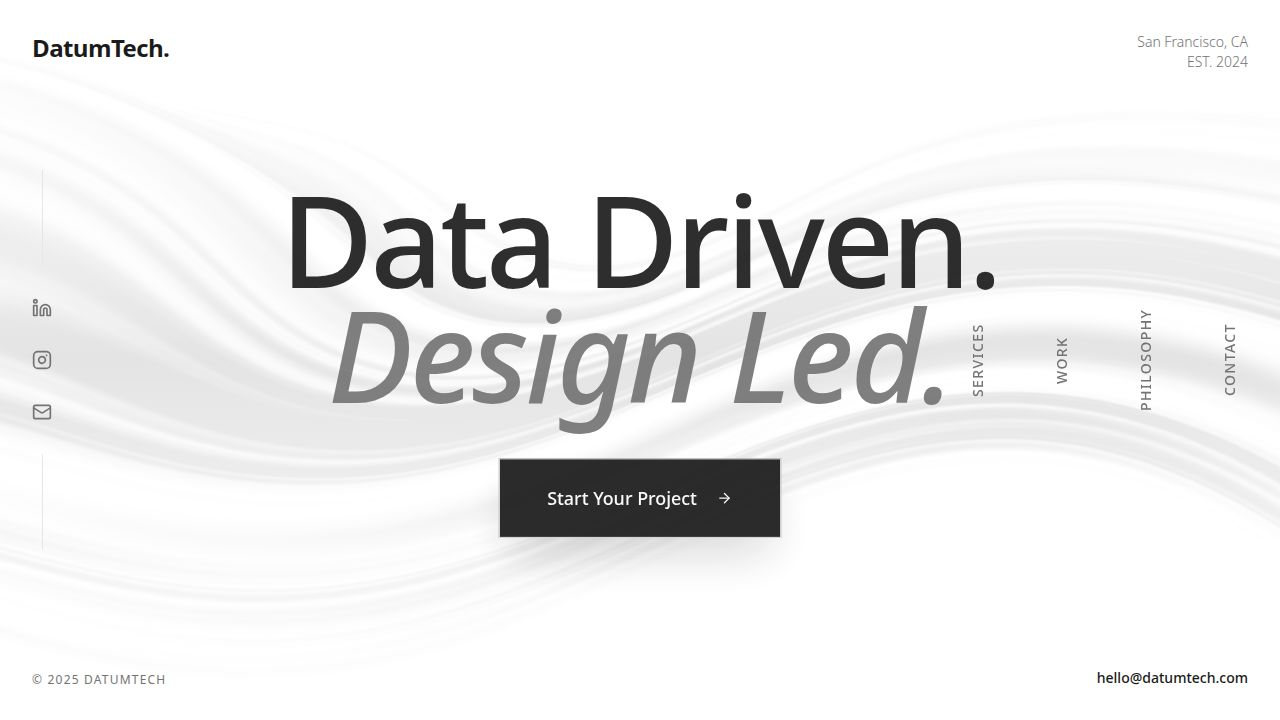
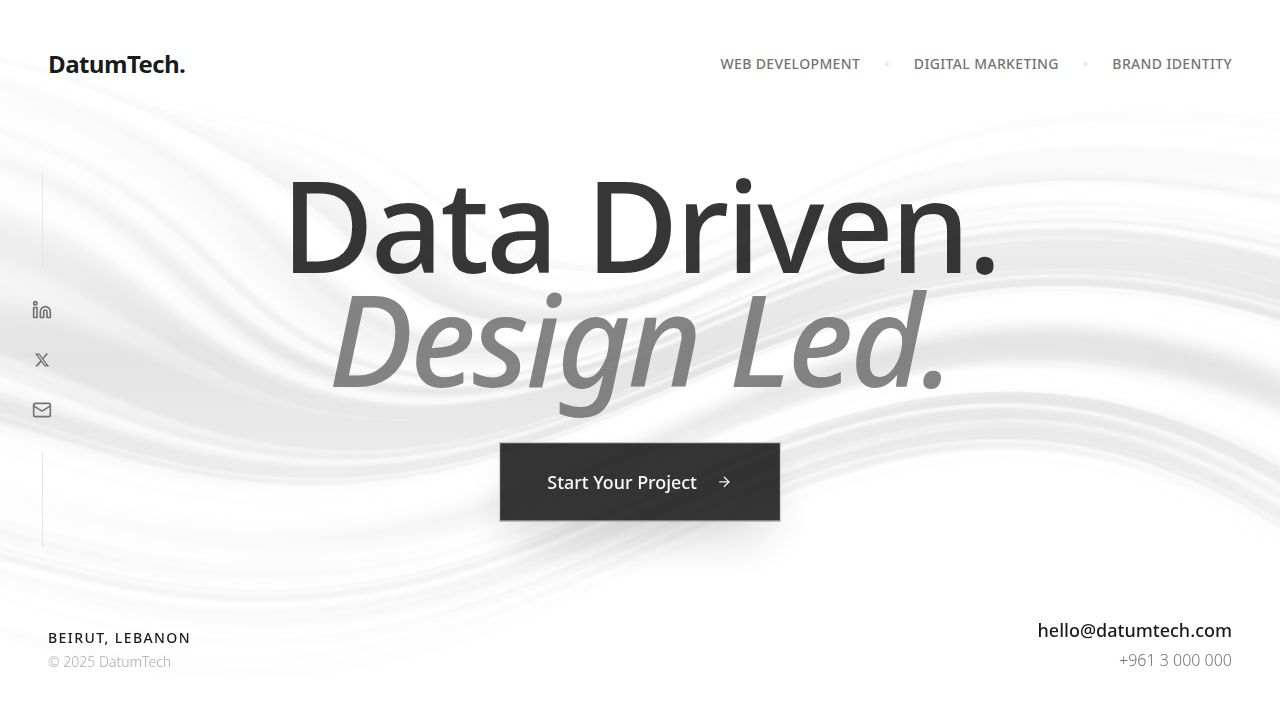
Update website branding and layout to reflect new business information
Replace Instagram logo with X logo, update location to Beirut, remove right-side navigation, and add service list to the top right header.

Replit-Commit-Author: Agent
Replit-Commit-Session-Id: 47a8e106-f118-4bb9-bd44-e1fb03fa4657
Replit-Commit-Checkpoint-Type: full_checkpoint
Replit-Commit-Event-Id: a6e69393-aa78-4894-9bbd-1a72d539158c
Replit-Commit-Screenshot-Url: https://storage.googleapis.com/screenshot-production-us-central1/a9d355a1-3046-4cba-b1a1-2083b4b99bc4/47a8e106-f118-4bb9-bd44-e1fb03fa4657/ioDjMUp
Replit-Helium-Checkpoint-Created: true

diff --git a/client/src/pages/home.tsx b/client/src/pages/home.tsx
@@ -1,10 +1,16 @@
 import React from "react";
-import { ArrowRight, Mail, Instagram, Linkedin, Twitter } from "lucide-react";
+import { ArrowRight, Mail, Linkedin } from "lucide-react";
 import { motion } from "framer-motion";
 import { Button } from "@/components/ui/button";
 
 // Generated assets
 import heroBg from "@assets/generated_images/abstract_elegant_black_and_white_fluid_waves.png"; 
+
+const XLogo = ({ className }: { className?: string }) => (
+  <svg viewBox="0 0 24 24" fill="currentColor" className={className}>
+    <path d="M18.244 2.25h3.308l-7.227 8.26 8.502 11.24H16.17l-5.214-6.817L4.99 21.75H1.68l7.73-8.835L1.254 2.25H8.08l4.713 6.231zm-1.161 17.52h1.833L7.084 4.126H5.117z" />
+  </svg>
+);
 
 export default function Home() {
   return (
@@ -20,44 +26,53 @@ export default function Home() {
         <div className="absolute inset-0 bg-gradient-to-b from-background via-transparent to-background" />
       </div>
 
-      {/* TOP: Brand */}
-      <header className="absolute top-0 left-0 w-full p-8 z-50 flex justify-between items-start">
+      {/* TOP BAR */}
+      <header className="absolute top-0 left-0 w-full p-8 md:p-12 z-50 flex flex-col md:flex-row justify-between items-start md:items-center gap-6">
         <div className="text-2xl font-serif font-bold tracking-tight">DatumTech.</div>
-        <div className="hidden md:flex flex-col items-end text-sm text-muted-foreground font-light">
-          <span>San Francisco, CA</span>
-          <span>EST. 2024</span>
+        
+        {/* Services List - Top Right */}
+        <div className="flex flex-wrap gap-x-6 gap-y-2 text-sm font-medium tracking-wide text-muted-foreground uppercase">
+          <span>Web Development</span>
+          <span className="hidden md:inline text-border">•</span>
+          <span>Digital Marketing</span>
+          <span className="hidden md:inline text-border">•</span>
+          <span>Brand Identity</span>
         </div>
       </header>
 
       {/* LEFT: Socials (Vertical) */}
       <div className="absolute left-0 top-1/2 -translate-y-1/2 p-8 z-50 hidden md:flex flex-col gap-8 items-center">
         <div className="h-24 w-px bg-border"></div>
-        <a href="#" className="hover:text-primary transition-colors text-muted-foreground"><Linkedin className="w-5 h-5" /></a>
-        <a href="#" className="hover:text-primary transition-colors text-muted-foreground"><Instagram className="w-5 h-5" /></a>
-        <a href="#" className="hover:text-primary transition-colors text-muted-foreground"><Mail className="w-5 h-5" /></a>
+        <a href="#" className="hover:text-primary transition-colors text-muted-foreground hover:scale-110 duration-200"><Linkedin className="w-5 h-5" /></a>
+        <a href="#" className="hover:text-primary transition-colors text-muted-foreground hover:scale-110 duration-200"><XLogo className="w-4 h-4" /></a>
+        <a href="mailto:hello@datumtech.com" className="hover:text-primary transition-colors text-muted-foreground hover:scale-110 duration-200"><Mail className="w-5 h-5" /></a>
         <div className="h-24 w-px bg-border"></div>
       </div>
 
-      {/* RIGHT: Navigation (Vertical) */}
-      <nav className="absolute right-0 top-1/2 -translate-y-1/2 p-8 z-50 hidden md:flex flex-col gap-12 text-sm font-medium tracking-widest uppercase [writing-mode:vertical-rl] rotate-180 items-center">
-        <a href="#services" className="hover:text-primary text-muted-foreground transition-colors py-2">Services</a>
-        <a href="#work" className="hover:text-primary text-muted-foreground transition-colors py-2">Work</a>
-        <a href="#philosophy" className="hover:text-primary text-muted-foreground transition-colors py-2">Philosophy</a>
-        <a href="#contact" className="hover:text-primary text-muted-foreground transition-colors py-2">Contact</a>
-      </nav>
-
-      {/* BOTTOM: Contact/Status */}
-      <footer className="absolute bottom-0 left-0 w-full p-8 z-50 flex justify-between items-end">
-        <div className="text-xs text-muted-foreground uppercase tracking-widest hidden md:block">
-          © {new Date().getFullYear()} DatumTech
+      {/* BOTTOM BAR */}
+      <footer className="absolute bottom-0 left-0 w-full p-8 md:p-12 z-50 flex flex-col md:flex-row justify-between items-end gap-8">
+        
+        {/* Address */}
+        <div className="text-sm text-muted-foreground font-light flex flex-col gap-1">
+          <div className="flex items-center gap-2">
+            <span className="uppercase tracking-widest font-medium text-foreground">Beirut, Lebanon</span>
+          </div>
+          <span className="opacity-60">© {new Date().getFullYear()} DatumTech</span>
         </div>
-        <a href="mailto:hello@datumtech.com" className="text-sm font-medium hover:underline underline-offset-4">
-          hello@datumtech.com
-        </a>
+
+        {/* Contact Info */}
+        <div className="flex flex-col items-start md:items-end gap-1">
+          <a href="mailto:hello@datumtech.com" className="text-lg font-medium hover:underline underline-offset-4">
+            hello@datumtech.com
+          </a>
+          <a href="tel:+96100000000" className="text-muted-foreground font-light hover:text-foreground transition-colors">
+            +961 3 000 000
+          </a>
+        </div>
       </footer>
 
       {/* CENTER: Hero Content */}
-      <main className="relative z-10 max-w-5xl px-6 text-center">
+      <main className="relative z-10 max-w-5xl px-6 text-center mt-[-2rem]">
         <motion.div 
           initial={{ opacity: 0, scale: 0.95 }}
           animate={{ opacity: 1, scale: 1 }}
